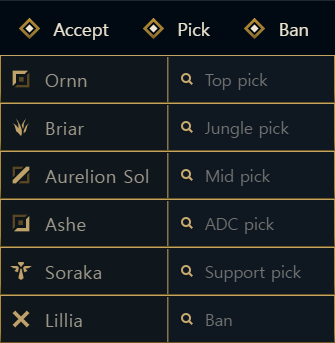
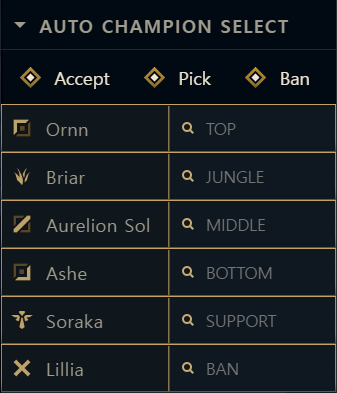
Update role placeholders and refresh README preview image.
Use uppercase role labels in the search fields and replace the role-pick screenshot with the latest UI capture.

Made-with: Cursor

diff --git a/index.js b/index.js
@@ -34,7 +34,7 @@ const ROLE_ICON_URLS = {
 };
 
 const topPlayableChampionsDropdown = new Dropdown(
- "Top pick",
+ "TOP",
  "controladoPick",
  getPlayableChampions,
  config => config.championsByRole.top,
@@ -43,7 +43,7 @@ const topPlayableChampionsDropdown = new Dropdown(
  "Top"
 );
 const junglePlayableChampionsDropdown = new Dropdown(
- "Jungle pick",
+ "JUNGLE",
  "controladoPick",
  getPlayableChampions,
  config => config.championsByRole.jungle,
@@ -52,7 +52,7 @@ const junglePlayableChampionsDropdown = new Dropdown(
  "Jungle"
 );
 const midPlayableChampionsDropdown = new Dropdown(
- "Mid pick",
+ "MIDDLE",
  "controladoPick",
  getPlayableChampions,
  config => config.championsByRole.mid,
@@ -61,7 +61,7 @@ const midPlayableChampionsDropdown = new Dropdown(
  "Mid"
 );
 const supportPlayableChampionsDropdown = new Dropdown(
- "Support pick",
+ "SUPPORT",
  "controladoPick",
  getPlayableChampions,
  config => config.championsByRole.support,
@@ -70,7 +70,7 @@ const supportPlayableChampionsDropdown = new Dropdown(
  "Support"
 );
 const adcPlayableChampionsDropdown = new Dropdown(
- "ADC pick",
+ "BOTTOM",
  "controladoPick",
  getPlayableChampions,
  config => config.championsByRole.adc,
@@ -80,7 +80,7 @@ const adcPlayableChampionsDropdown = new Dropdown(
 );
 
 const allChampionsBanDropdown = new Dropdown(
- "Ban",
+ "BAN",
  "controladoBan",
  getAllChampions,
  config => config.champion,
